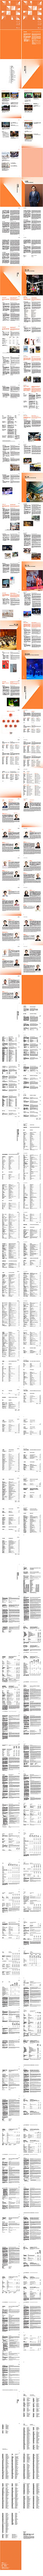
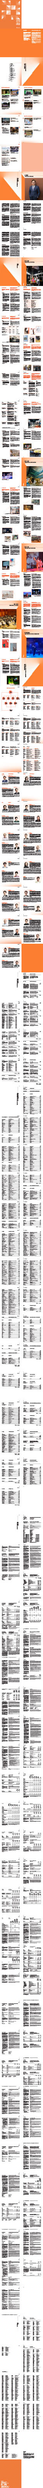
2020-12-16

diff --git a/index.html b/index.html
@@ -52,7 +52,7 @@ function loadApp() {
 
 			// Magazine width
 
-			width: 922,
+			width: 888,
 
 			// Magazine height
 
